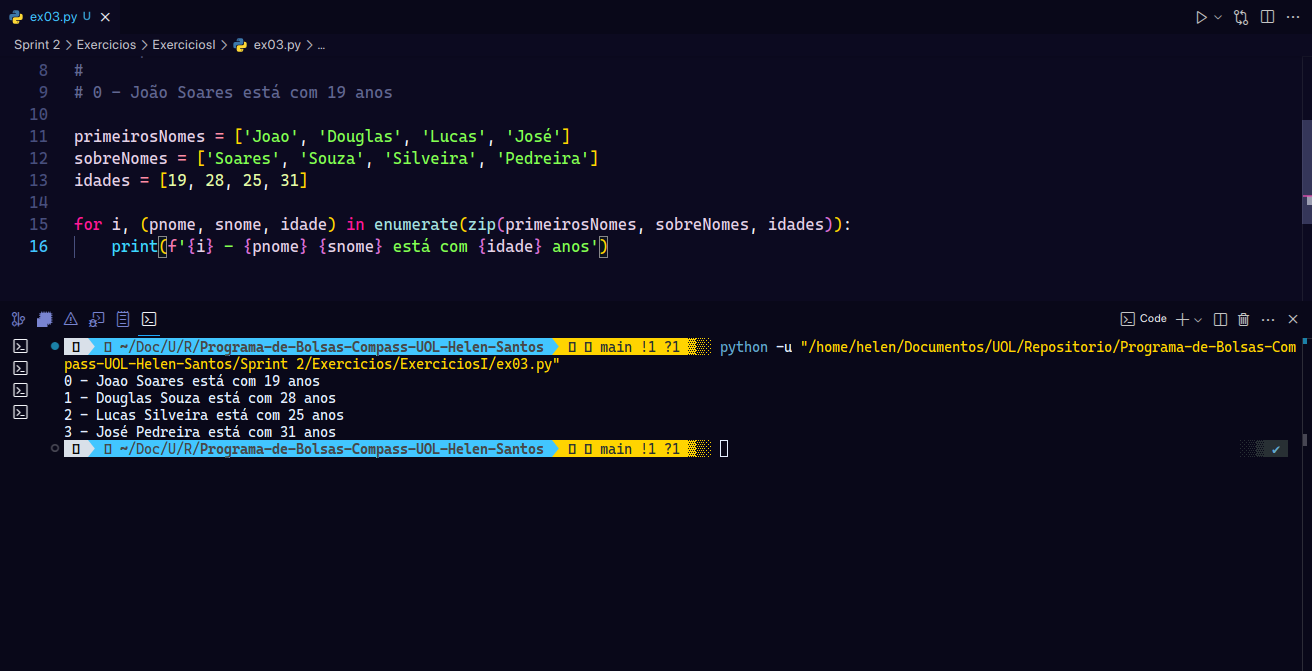
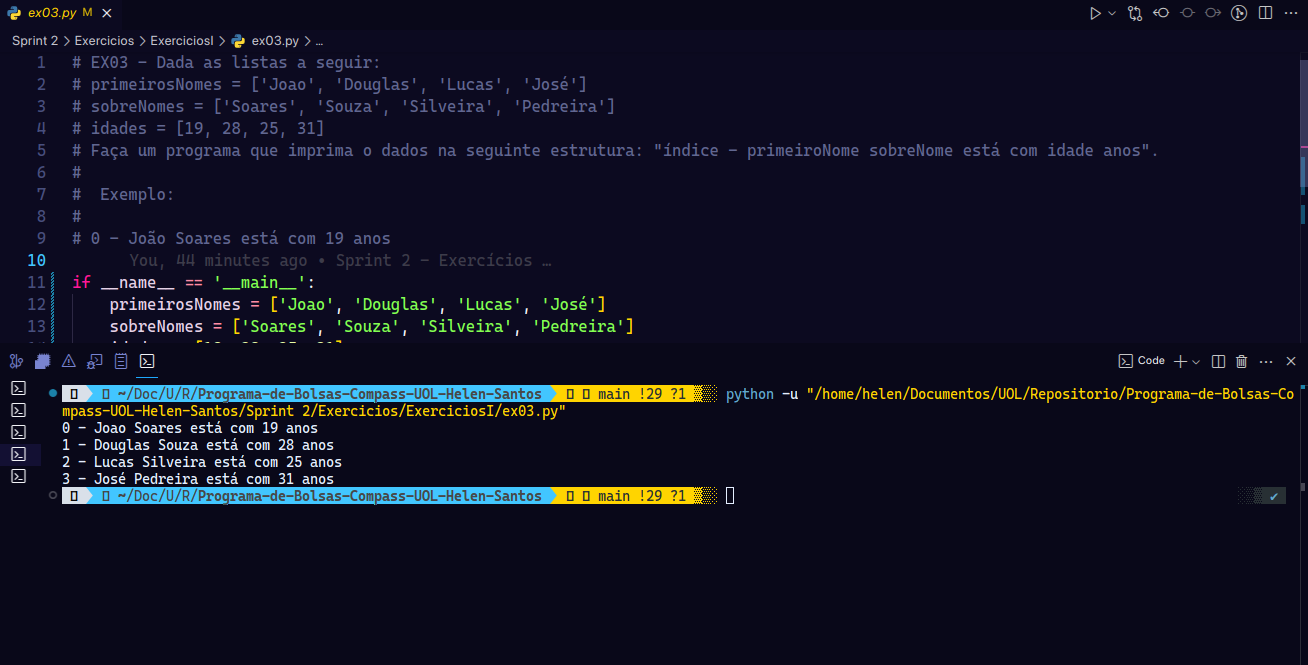
Sprint 2 - Exercícios

diff --git a/Sprint 2/Exercicios/ExerciciosII/ex16.py b/Sprint 2/Exercicios/ExerciciosII/ex16.py
@@ -1,0 +1,30 @@
+# EX16 - Crie uma classe chamada Pessoa, com um atributo privado chamado nome 
+# (declarado internamente na classe como __nome) e um atributo público de nome id.
+# Adicione dois métodos à classe, sendo um para definir o valor de __nome e outro 
+# para retornar o valor do respectivo atributo.
+# Lembre-se que o acesso ao atributo privado deve ocorrer somente através dos
+# métodos definidos, nunca diretamente.  Você pode alcançar este comportamento
+# através do recurso de properties do Python.
+# Veja um exemplo de como seu atributo privado pode ser lido e escrito:
+
+# pessoa = Pessoa(0)
+# pessoa.nome = 'Fulano De Tal'
+# print(pessoa.nome)
+
+class Pessoa:
+    def __init__(self, id):
+        self.id = id
+        self.__nome = None
+
+    @property
+    def nome(self):
+        return self.__nome
+
+    @nome.setter
+    def nome(self, novo_nome):
+        self.__nome = novo_nome
+
+if __name__ == '__main__':
+    pessoa = Pessoa(0)
+    pessoa.nome = 'Fulano De Tal'
+    print(pessoa.nome)

diff --git a/Sprint 2/Exercicios/ExerciciosI/ex13.py b/Sprint 2/Exercicios/ExerciciosI/ex13.py
@@ -16,19 +16,20 @@
 
 import random
 
-random_list = random.sample(range(500), 50)
-valor_minimo = min(random_list)
-valor_maximo = max(random_list)
+if __name__ == '__main__':
+    random_list = random.sample(range(500), 50)
+    valor_minimo = min(random_list)
+    valor_maximo = max(random_list)
 
-media = sum(random_list) / len(random_list)
-lista_ordenada = sorted(random_list)
-meio = len(lista_ordenada) // 2
-mediana = (lista_ordenada[meio - 1] + lista_ordenada[meio]) / 2
+    media = sum(random_list) / len(random_list)
+    lista_ordenada = sorted(random_list)
+    meio = len(lista_ordenada) // 2
+    mediana = (lista_ordenada[meio - 1] + lista_ordenada[meio]) / 2
 
-print("Mediana:", mediana)
-print("Média:", media)
-print("Valor Mínimo:", valor_minimo)
-print("Valor Máximo:", valor_maximo)
+    print("Mediana:", mediana)
+    print("Média:", media)
+    print("Valor Mínimo:", valor_minimo)
+    print("Valor Máximo:", valor_maximo)
 
 
 

diff --git a/Sprint 2/Exercicios/ExerciciosI/ex12.py b/Sprint 2/Exercicios/ExerciciosI/ex12.py
@@ -2,10 +2,11 @@
 # speed = {'jan':47, 'feb':52, 'march':47, 'April':44, 'May':52, 'June':53, 'july':54, 'Aug':44, 'Sept':54}
 # Crie uma lista com todos os valores (não as chaves!) e coloque numa lista de forma que não haja valores duplicados.
 
-speed = {'jan':47, 'feb':52, 'march':47, 'April':44, 'May':52, 'June':53, 'july':54, 'Aug':44, 'Sept':54}
+if __name__ == '__main__':
+    speed = {'jan':47, 'feb':52, 'march':47, 'April':44, 'May':52, 'June':53, 'july':54, 'Aug':44, 'Sept':54}
 
-valores = speed.values()
-valores_lista = list(speed.values())
-valores_unicos = list(set(valores_lista))
+    valores = speed.values()
+    valores_lista = list(speed.values())
+    valores_unicos = list(set(valores_lista))
 
-print("Valores únicos:", valores_unicos)
+    print("Valores únicos:", valores_unicos)

diff --git a/Sprint 2/Exercicios/ExerciciosI/ex03.py b/Sprint 2/Exercicios/ExerciciosI/ex03.py
@@ -8,9 +8,10 @@
 #
 # 0 - João Soares está com 19 anos
 
-primeirosNomes = ['Joao', 'Douglas', 'Lucas', 'José']
-sobreNomes = ['Soares', 'Souza', 'Silveira', 'Pedreira']
-idades = [19, 28, 25, 31]
+if __name__ == '__main__':
+    primeirosNomes = ['Joao', 'Douglas', 'Lucas', 'José']
+    sobreNomes = ['Soares', 'Souza', 'Silveira', 'Pedreira']
+    idades = [19, 28, 25, 31]
 
-for i, (pnome, snome, idade) in enumerate(zip(primeirosNomes, sobreNomes, idades)):
-    print(f'{i} - {pnome} {snome} está com {idade} anos')
+    for i, (pnome, snome, idade) in enumerate(zip(primeirosNomes, sobreNomes, idades)):
+        print(f'{i} - {pnome} {snome} está com {idade} anos')

diff --git a/Sprint 2/Exercicios/ExerciciosI/ex02.py b/Sprint 2/Exercicios/ExerciciosI/ex02.py
@@ -14,10 +14,10 @@
  
 # A palavra: moto não é um palíndromo
 
-lista = ['maça', 'arara', 'audio','radio', 'radar', 'moto']
-
-for palavra in lista:
-    if palavra == palavra[::-1]:
-        print(f'A palavra: {palavra} é um palíndromo.\n')
-    else: 
-        print(f'A palavra: {palavra} não é um palíndromo.\n')
+if __name__ == '__main__':
+    lista = ['maça', 'arara', 'audio','radio', 'radar', 'moto']
+    for palavra in lista:
+        if palavra == palavra[::-1]:
+            print(f'A palavra: {palavra} é um palíndromo.\n')
+        else: 
+            print(f'A palavra: {palavra} não é um palíndromo.\n')

diff --git a/Sprint 2/Exercicios/ExerciciosI/ex11.py b/Sprint 2/Exercicios/ExerciciosI/ex11.py
@@ -9,9 +9,10 @@ def dividir_funcao(list):
     lista_tres = lista[2*tamanho:]
     return lista_um, lista_dois, lista_tres
 
-lista = [1, 2, 3, 4, 5, 6, 7, 8, 9, 10, 11, 12]
-lista_um, lista_dois, lista_tres = dividir_funcao(lista)
+if __name__ == '__main__':
+    lista = [1, 2, 3, 4, 5, 6, 7, 8, 9, 10, 11, 12]
+    lista_um, lista_dois, lista_tres = dividir_funcao(lista)
 
-print("Lista 1:", lista_um)
-print("Lista 2:", lista_dois)
-print("Lista 3:", lista_tres)
+    print("Lista 1:", lista_um)
+    print("Lista 2:", lista_dois)
+    print("Lista 3:", lista_tres)

diff --git a/Sprint 2/Exercicios/ExerciciosI/ex09.py b/Sprint 2/Exercicios/ExerciciosI/ex09.py
@@ -23,10 +23,11 @@ class Lampada:
     
     def esta_ligada(self):
         return self.ligada
+    
+if __name__ == '__main__':
+    lampada = Lampada(False)
+    lampada.liga()
+    print("A lâmpada está ligada?", lampada.esta_ligada())
 
-lampada = Lampada(False)
-lampada.liga()
-print("A lâmpada está ligada?", lampada.esta_ligada())
-
-lampada.desliga()
-print("A lâmpada ainda está ligada?", lampada.esta_ligada())
+    lampada.desliga()
+    print("A lâmpada ainda está ligada?", lampada.esta_ligada())

diff --git a/Sprint 2/Exercicios/ExerciciosI/ex07.py b/Sprint 2/Exercicios/ExerciciosI/ex07.py
@@ -4,9 +4,10 @@
 
 import os
 
-os.chdir(os.path.dirname(__file__))
+if __name__ == '__main__':
+    os.chdir(os.path.dirname(__file__))
 
-with open("arquivo_texto.txt", "r", encoding="utf-8") as arquivo_texto:
-    arquivo = arquivo_texto.readlines()
-    for linha in arquivo:
-        print(linha.strip())
+    with open("arquivo_texto.txt", "r", encoding="utf-8") as arquivo_texto:
+        arquivo = arquivo_texto.readlines()
+        for linha in arquivo:
+            print(linha.strip())

diff --git a/Sprint 2/Exercicios/ExerciciosII/ex17.py b/Sprint 2/Exercicios/ExerciciosII/ex17.py
@@ -1,0 +1,14 @@
+# EX17 - Crie uma classe  Calculo  que contenha um método que aceita dois parâmetros, 
+# X e Y, e retorne a soma dos dois. Nessa mesma classe, implemente um método de 
+# subtração, que aceita dois parâmetros, X e Y, e retorne a subtração dos dois 
+# (resultados negativos são permitidos).
+# Utilize os valores abaixo para testar seu exercício:
+# x = 4
+# y = 5
+# imprima:
+# Somando: 4+5 = 9
+# Subtraindo: 4-5 = -1
+
+
+if __name__ == '__main__':
+    pass

diff --git a/Sprint 2/Exercicios/ExerciciosII/ex15.py b/Sprint 2/Exercicios/ExerciciosII/ex15.py
@@ -31,11 +31,12 @@ class Pardal(Passaro):
         print("Pardal emitindo som...")
         print("Piu Piu")
 
-print("Pato")
-pato = Pato()
-pato.voar()
-pato.emitir_som()
-print("Pardal")
-pardal = Pardal()
-pardal.voar()
-pardal.emitir_som()
+if __name__ == '__main__': 
+    print("Pato")
+    pato = Pato()
+    pato.voar()
+    pato.emitir_som()
+    print("Pardal")
+    pardal = Pardal()
+    pardal.voar()
+    pardal.emitir_som()

diff --git a/Sprint 2/Exercicios/ExerciciosI/ex08.py b/Sprint 2/Exercicios/ExerciciosI/ex08.py
@@ -12,5 +12,6 @@ def mostrar_parametros(*posicional, **nomeado):
     print("\nParâmetros nomeados:")
     for chave, valor in nomeado.items():
         print(f"  {chave} → {valor}")
-        
-mostrar_parametros(1, 3, 4, 'hello', parametro_nomeado='alguma coisa', x=20)
+
+if __name__ == '__main__':
+    mostrar_parametros(1, 3, 4, 'hello', parametro_nomeado='alguma coisa', x=20)

diff --git a/Sprint 2/Exercicios/ExerciciosI/ex05.py b/Sprint 2/Exercicios/ExerciciosI/ex05.py
@@ -4,9 +4,9 @@
 import json
 import os
 
-os.chdir(os.path.dirname(__file__))
-
-with open("person.json", "r", encoding="utf-8") as arquivo:
-    dados = json.load(arquivo)
-    print(dados)
+if __name__ == '__main__':
+    os.chdir(os.path.dirname(__file__))
+    with open("person.json", "r", encoding="utf-8") as arquivo:
+        dados = json.load(arquivo)
+        print(dados)
 
